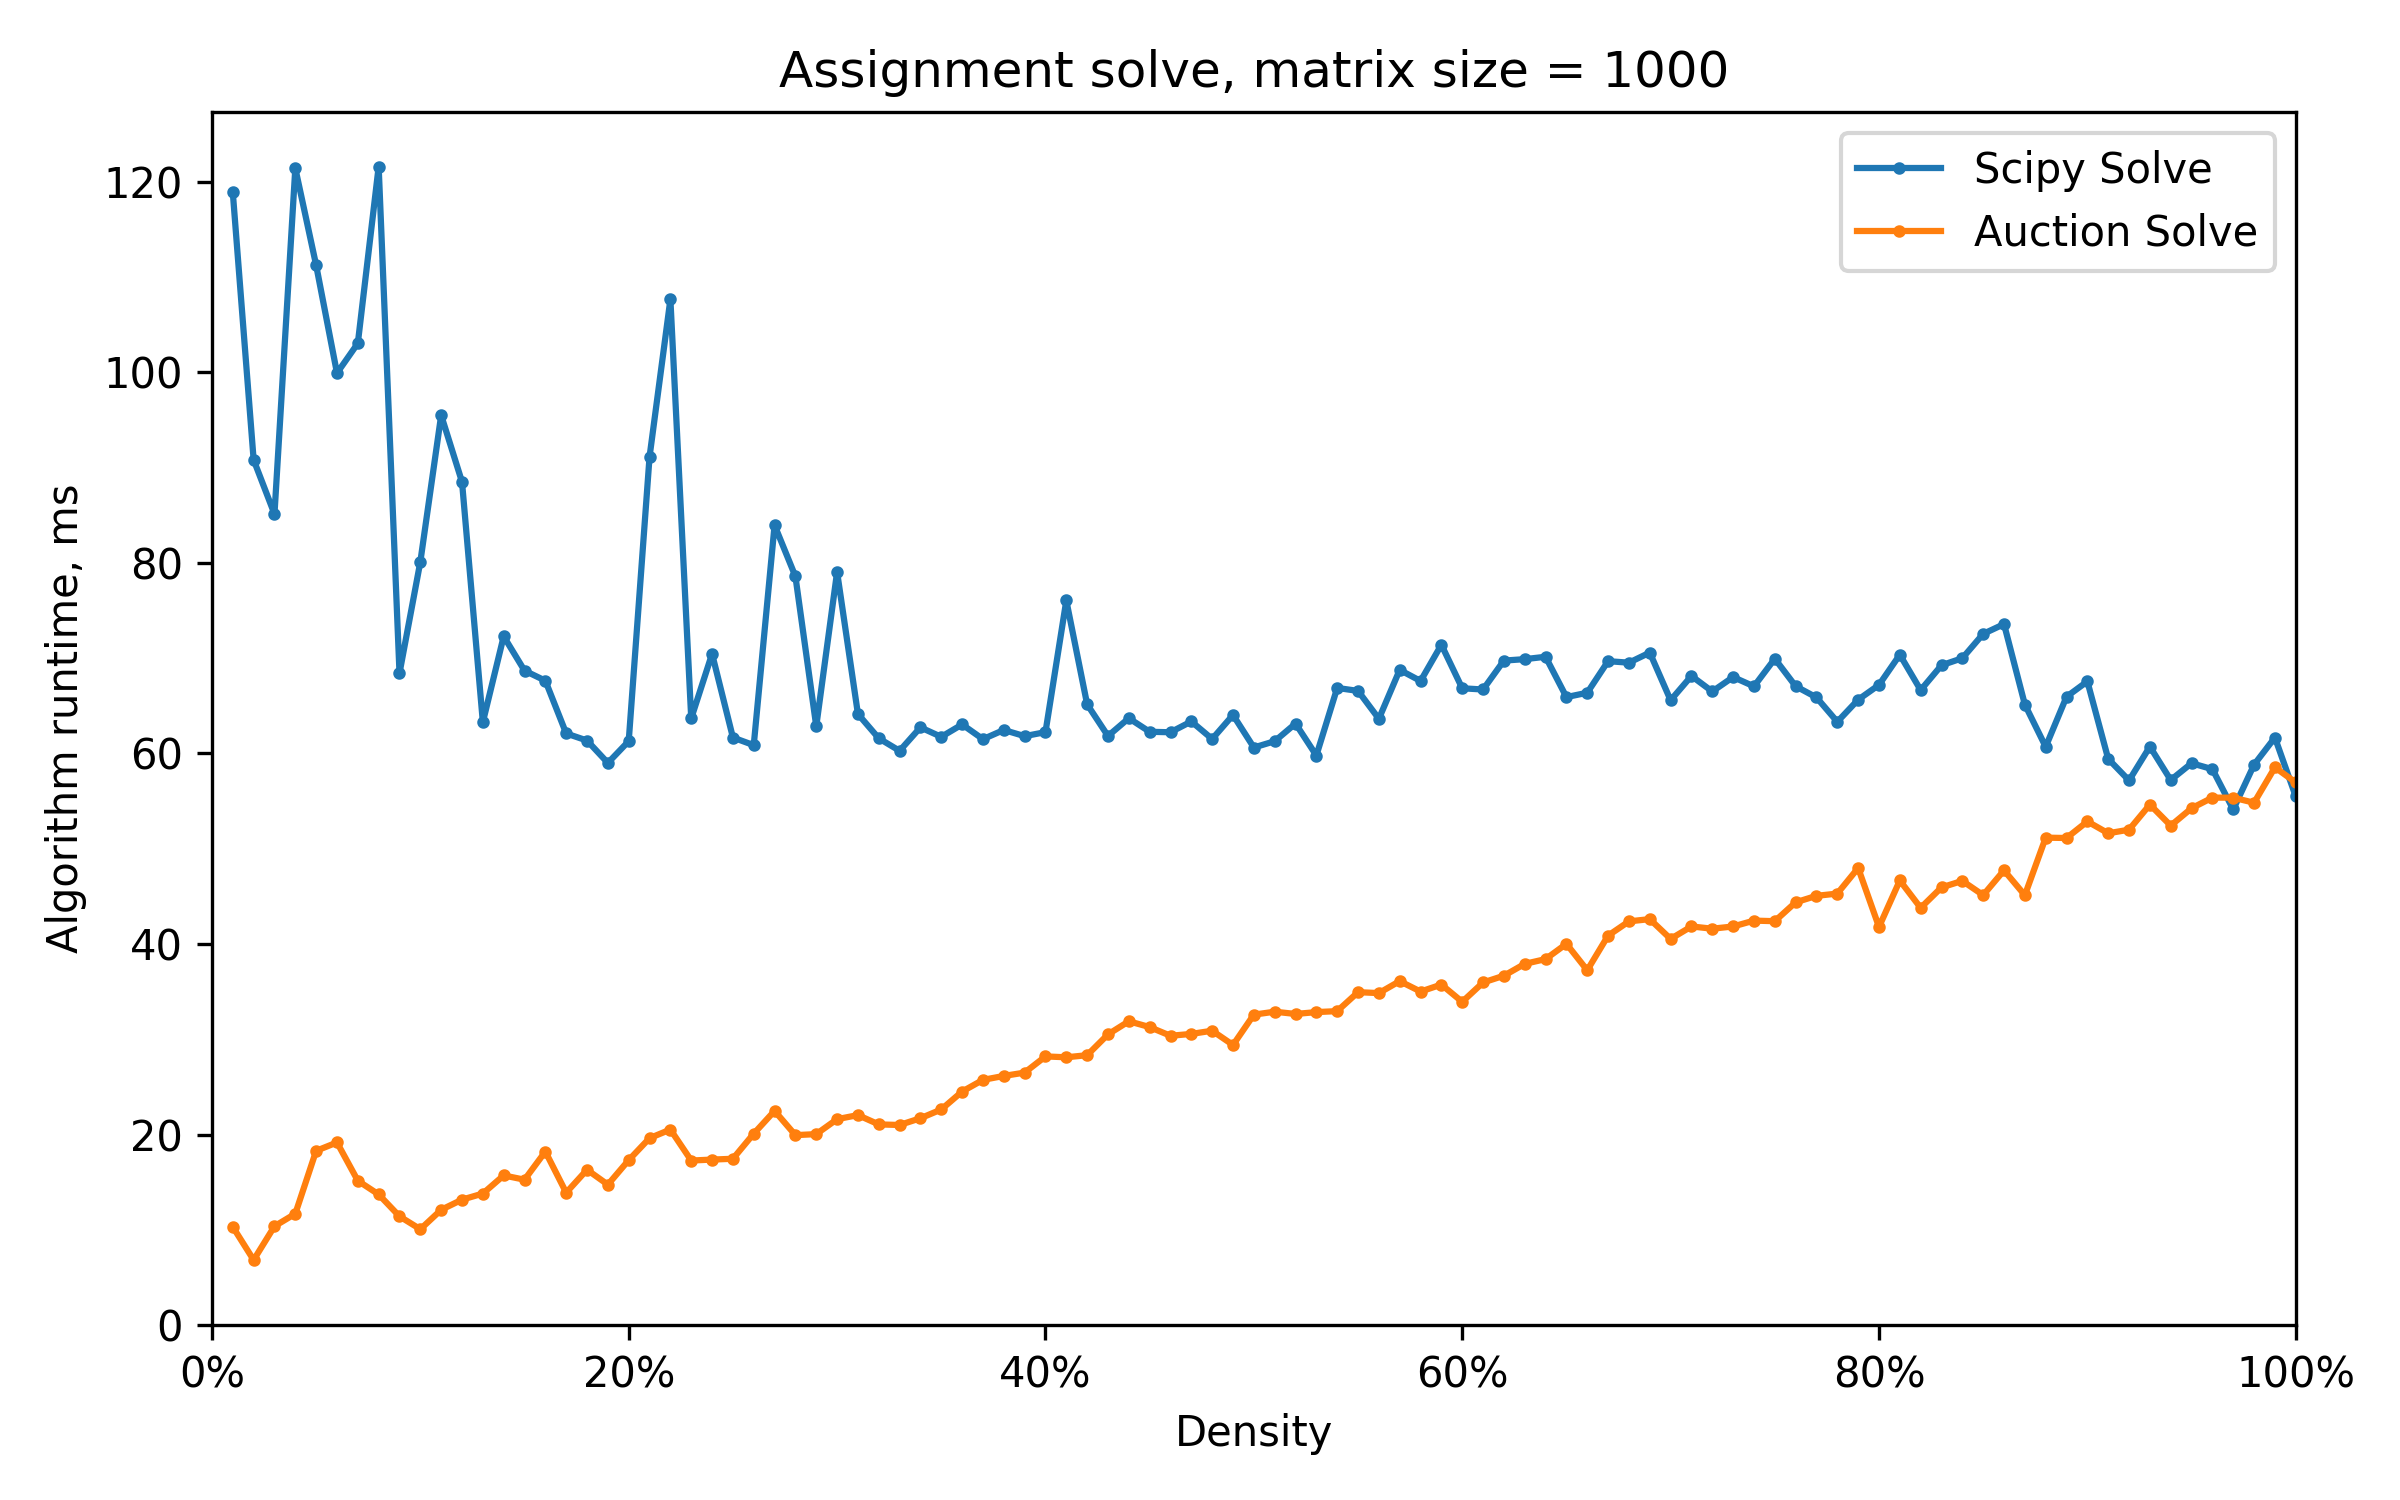
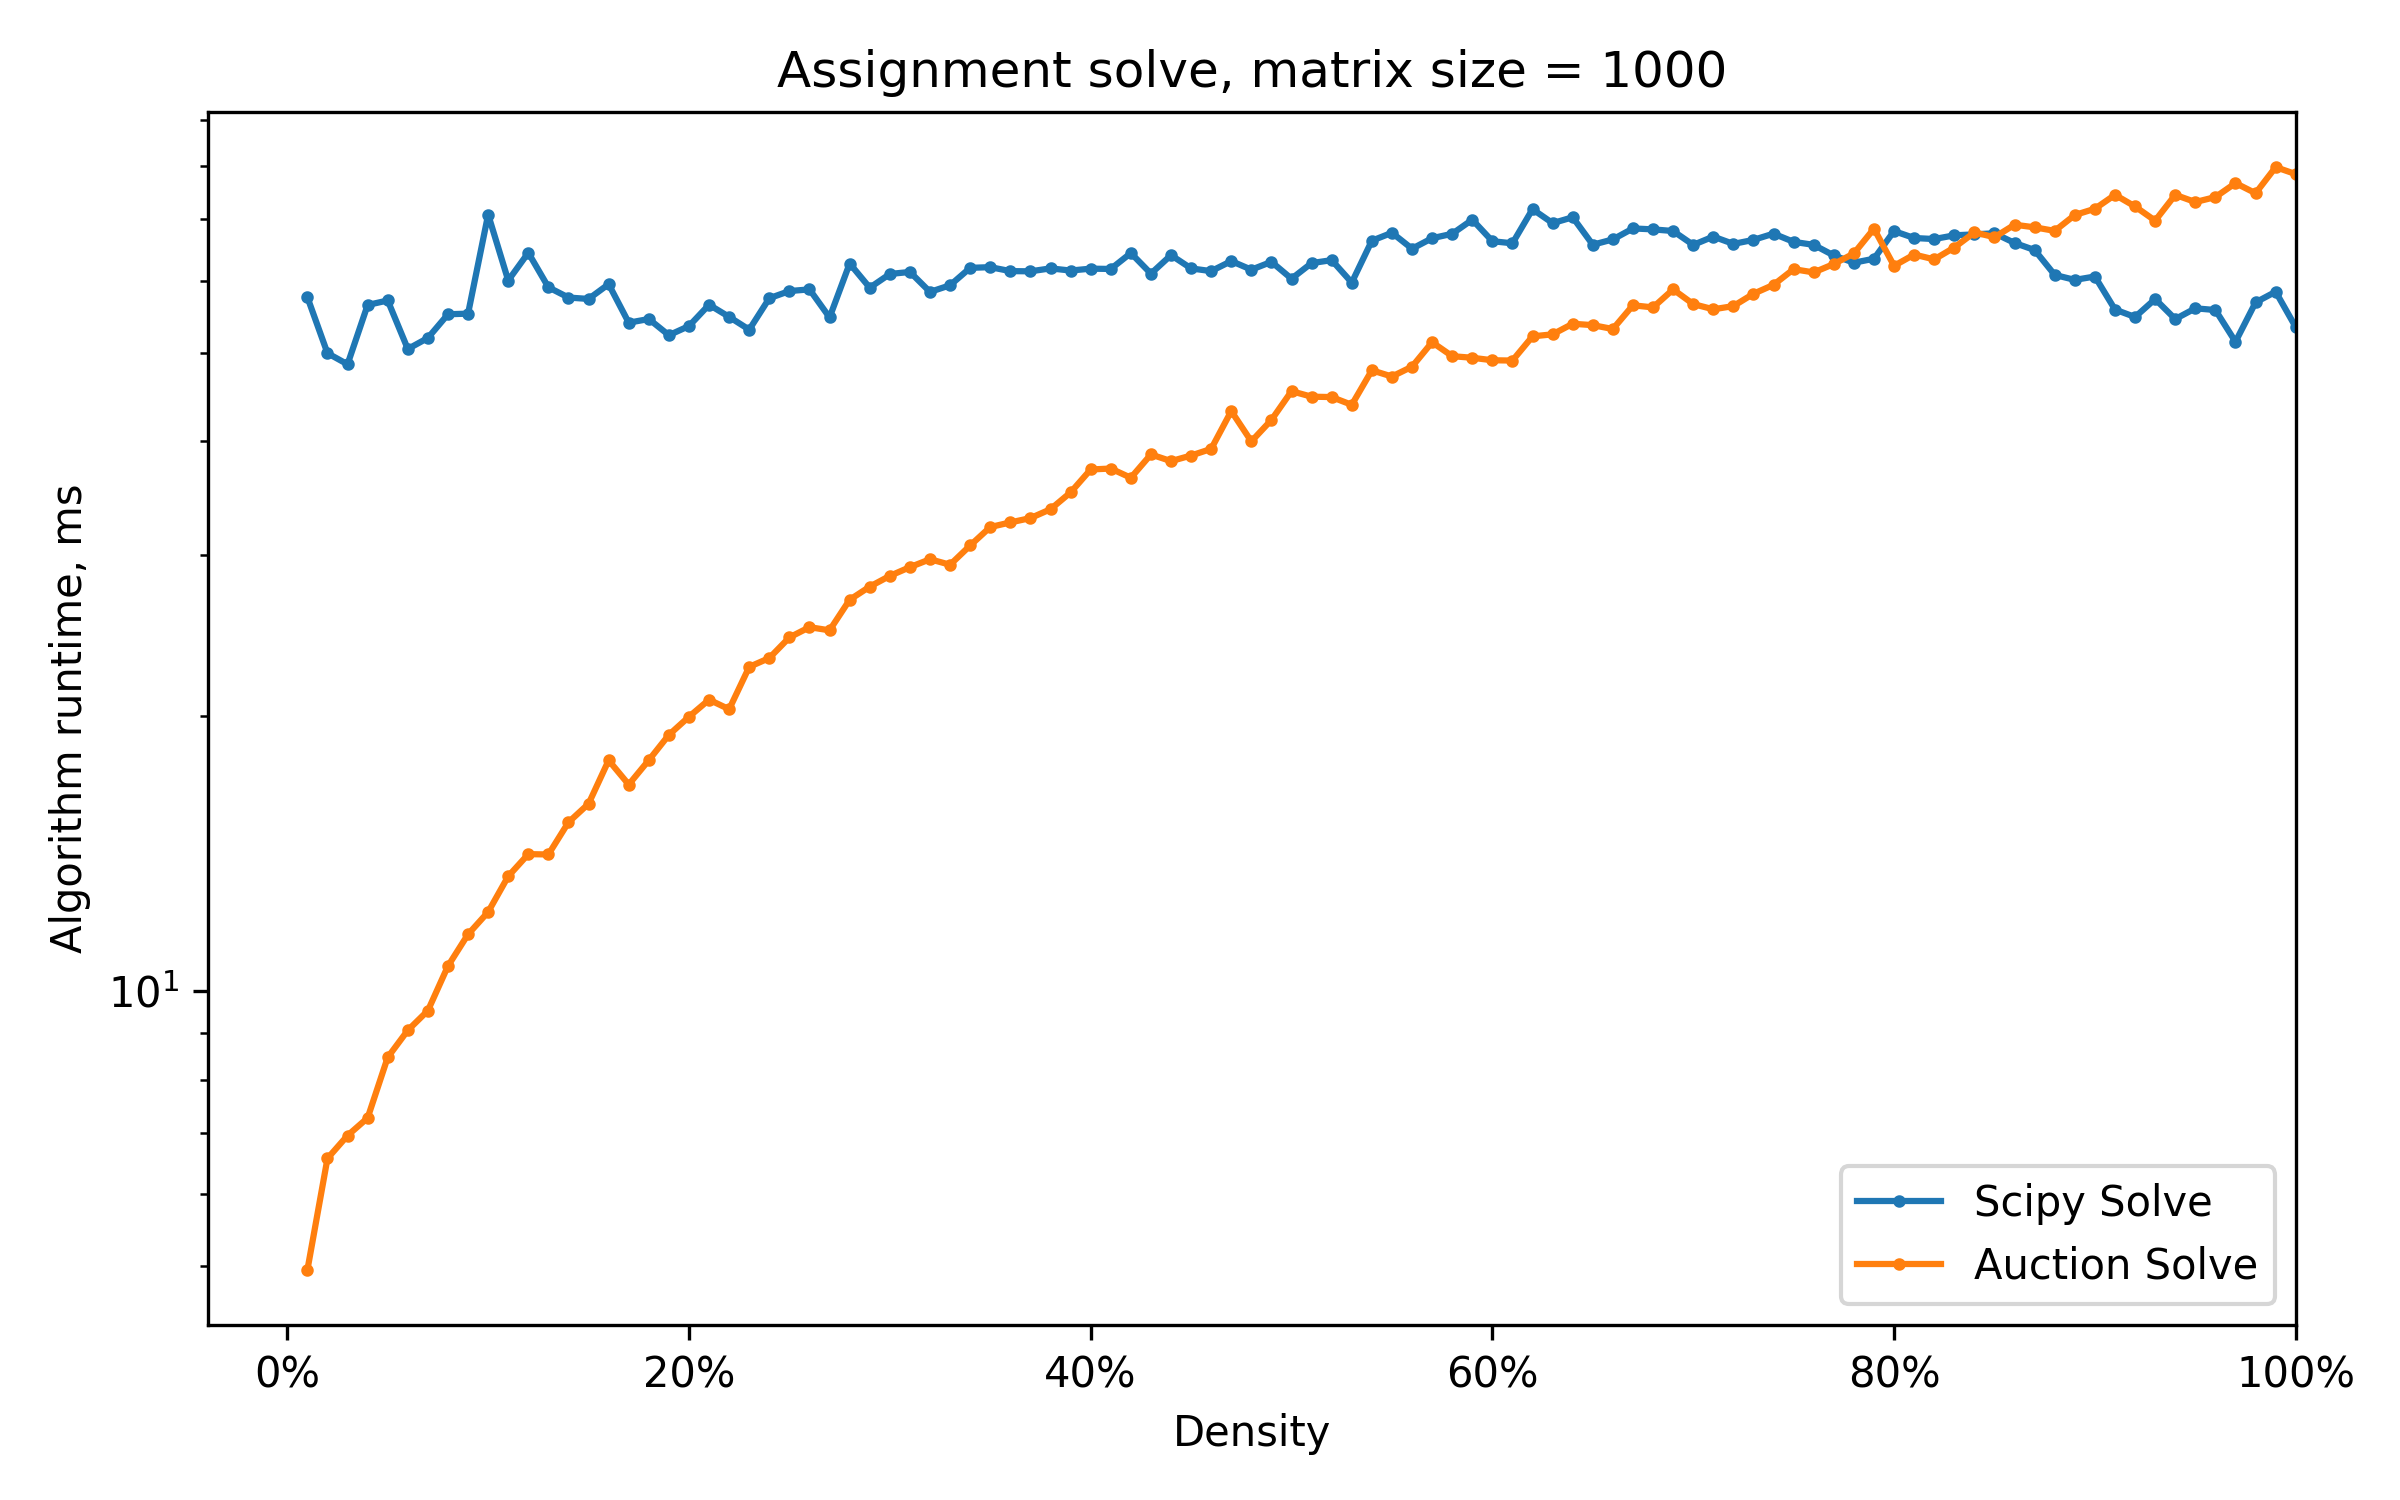
Speed and documentation improvements

diff --git a/benchmarking.py b/benchmarking.py
@@ -6,11 +6,13 @@ import matplotlib.ticker as mtick
 
 from sslap.auction import from_matrix as auction_from_matrix
 from scipy.optimize import linear_sum_assignment
+from typing import Union
 
 from tqdm import tqdm
 
 seed = 1
 problem = 'max'
+
 
 def _improve_feasibility(mask):
 	"""Ensure every row and column has at least one element labelled False, for valid connections"""
@@ -33,8 +35,7 @@ class Benchmark:
 			np.random.seed(seed)
 			mat = np.random.uniform(0., 100., size=(size, size)).astype(np.float)
 
-
-		np.random.seed(seed+1)  # alter seed for selecting randomly
+		np.random.seed(seed + 1)  # alter seed for selecting randomly
 		mask = np.random.random(mat.shape) > density  # make matrix sparse based on density
 		mask = _improve_feasibility(mask)
 		mat[mask] = -1
@@ -52,14 +53,14 @@ class Benchmark:
 		sol, meta = func(self.mat)
 		t1 = perf_counter()
 
-		selected_vals = self.mat[np.arange(self.size), sol] # values selected by assignment
+		selected_vals = self.mat[np.arange(self.size), sol]  # values selected by assignment
 
 		data = dict(
 			func_name=func.__name__,
 			elapsed=t1 - t0,
-			complete_assignment=(np.unique(sol).size==self.size, (sol>=0).all(), (sol<self.size).all()),
+			complete_assignment=(np.unique(sol).size == self.size, (sol >= 0).all(), (sol < self.size).all()),
 			valid_assignment=(selected_vals >= 0).all(),
-			objective_func = selected_vals.sum(),
+			objective_func=selected_vals.sum(),
 		)
 
 		if isinstance(meta, dict):
@@ -75,13 +76,14 @@ def auction_solve(mat):
 
 
 def scipy_solve(mat):
-	scipy_mat = (1/mat).copy() if problem == 'max' else mat.copy()
+	scipy_mat = (1 / mat).copy() if problem == 'max' else mat.copy()
 	scipy_mat[scipy_mat < 0] = np.inf
 	R, C = linear_sum_assignment(scipy_mat)
 	return C, None
 
 
-def evaluate(*funcs, sizes=100, densities=1., mode='float', name='example'):
+def evaluate(*funcs, sizes: Union[float, np.ndarray] = 100, densities: Union[float, np.ndarray] = 1., mode='float',
+			 name='example', log=True):
 	"""Complete speed tests for all functions, for a range of sizes, and fixed density.
 	One of sizes and density must be an ndarray"""
 
@@ -92,6 +94,14 @@ def evaluate(*funcs, sizes=100, densities=1., mode='float', name='example'):
 	iterable = sizes if xaxis == 'sizes' else densities
 
 	fig, ax = plt.subplots(figsize=(8, 5))
+	plot_func = ax.plot
+	leftmin = 0
+	if log:
+		if xaxis == 'sizes':
+			plot_func = ax.loglog
+			leftmin = None
+		else:
+			plot_func = ax.semilogy
 
 	with tqdm(iterable) as tqdm_it:
 		for val in tqdm_it:
@@ -107,33 +117,32 @@ def evaluate(*funcs, sizes=100, densities=1., mode='float', name='example'):
 					res = benchmark(f)
 					data[res['func_name']] = data.get(res['func_name'], []) + [res['elapsed']]
 
-			except ValueError as e: # infeasible cost mat
+			except ValueError as e:  # infeasible cost mat
 				continue
 
 			xdata.append(val)
 
 		for k, v in data.items():
-			ax.plot(xdata, 1000*np.array(v), "-o", label=k.replace("_", " ").title(), ms=2.)
+			plot_func(xdata, 1000 * np.array(v), "-o", label=k.replace("_", " ").title(), ms=2.)
 
 	# axis formatting
 	ax.set_xlabel(xaxis.title())
 	ax.set_ylabel("Algorithm runtime, ms")
-	title = f'Assignment solve, matrix size = {sizes}' if xaxis == 'density' else f'Assignment solve, matrix density = {densities*100:.1f}%'
+	title = f'Assignment solve, matrix size = {sizes}' if xaxis == 'density' else f'Assignment solve, matrix density = {densities * 100:.1f}%'
 	ax.set_title(title)
 
-	ax.set_xlim(left=0, right=1. if xaxis == 'density' else sizes.max())
-	ax.set_ylim(bottom=0)
-	ax.xaxis.set_major_formatter(mtick.PercentFormatter(1.))
+	ax.set_xlim(left=leftmin, right=1. if xaxis == 'density' else sizes.max())
+	if not log:
+		ax.set_ylim(bottom=0)
+
+	if xaxis=='density':
+		ax.xaxis.set_major_formatter(mtick.PercentFormatter(1.))
 
 	plt.legend()
 	plt.tight_layout()
-	# plt.savefig(f'figs/{name}.png', dpi=300)
-	plt.show()
+	plt.savefig(f'figs/{name}.png', dpi=300)
 
 
 if __name__ == '__main__':
-	# evaluate_by_size(scipy_solve, auction_solve, sizes= (10 * 1.3 ** np.arange(20)).astype(np.int), densities=0.05)
-	# evaluate_by_size(scipy_solve, auction_solve, sizes=1000*np.arange(10).astype(np.int), densities=0.01)
-	# evaluate_by_size(scipy_solve, auction_solve, sizes=5000, densities=0.01*1.2**np.arange(20))
-	evaluate(scipy_solve, auction_solve, sizes=1000, densities=np.linspace(0.01, 1, 100),
-			 name='density_benchmarking')
+	evaluate(scipy_solve, auction_solve, sizes=np.logspace(1, 4, 20).astype(np.int), densities=1., name='size_benchmarking')
+	evaluate(scipy_solve, auction_solve, sizes=1000, densities=np.linspace(0.01, 1, 100), name='density_benchmarking')

diff --git a/setup.py b/setup.py
@@ -42,10 +42,15 @@ ext_modules = cythonize([
 ]
 )
 
+with open("README.md", "r", encoding="utf-8") as fh:
+	long_description = fh.read()
+
 setup(
 	name='sslap',
 	version='0.1',
 	description='Super Sparse Linear Assignment Problems Solver',
+	long_description=long_description,
+	long_description_content_type="text/markdown",
 	author_email='ollieboyne@gmail.com',
 	url='http://github.com/OllieBoyne/sslap',
 	author='Ollie Boyne',

diff --git a/README.md b/README.md
@@ -2,25 +2,32 @@
 
 This library provides implementations for solvers for **S**uper **S**parse **L**inear **A**ssignment **P**roblems.
 
-An assignment problem is one where a one-to-one assignment has to be made between two sets, where each assignment has an associated cost.
+An [assignment problem](https://en.wikipedia.org/wiki/Assignment_problem) is one where a one-to-one assignment has to be made between two sets, where each assignment has an associated cost.
 
 In super sparse assignment problems, typically less than 1% of all feasible assignments are allowed.
 
-This library provides two algorithms:
-- Auction Algorithm - An algorithm well suited for super sparse problems. It is one in which *people* in one set 'bid' for *objects* in the other set, driving up their prices in order to find an optimal assignment. 
-- Sparse Hungarian - A simple implementation of the Hungarian Algorithm, leveraged for sparse matrices
+This library provides a Cython implementation of the [Auction Algorithm](https://en.wikipedia.org/wiki/Auction_algorithm) [1], which is well suited for super sparse problems. It is one in which *people* in one set 'bid' for *objects* in the other set, driving up their prices in order to find an optimal assignment. 
 
-Both of these problems are implemented in Cython, with a pure Python implementation of the Hungarian algorithm also provided.
+Also provided is an implementation of the [Hopcroft-Karp Algorithm](https://en.wikipedia.org/wiki/Hopcroft%E2%80%93Karp_algorithm) [2] for finding a maximum matching in a bipartite graph. This is used by the Auction solver to check that a given problem has a valid solution.
 
 ## Installation
 
-```pip install -e .```
+```pip install sslap```
+
+## Usage
 
 ## Benchmarking
 
+The algorithm is best suited for large and sparse problems, where it outperforms `scipy.optimize.linear_sum_assignment`.
+
+See below for some timed comparisons of the runtime for problems of varying density (% of valid entries in the matrix) and matrix size.
+
 ![](figs/density_benchmarking.png)
+![](figs/size_benchmarking.png)
 
 ## Notes
+
+[1] A Distributed Algorithm for the Assignment Problem - https://www.mit.edu/~dimitrib/Orig_Auction.pdf
 
 - A matrix passed into from_matrix requires positive values only, and -1 indicates invalid values.
 
